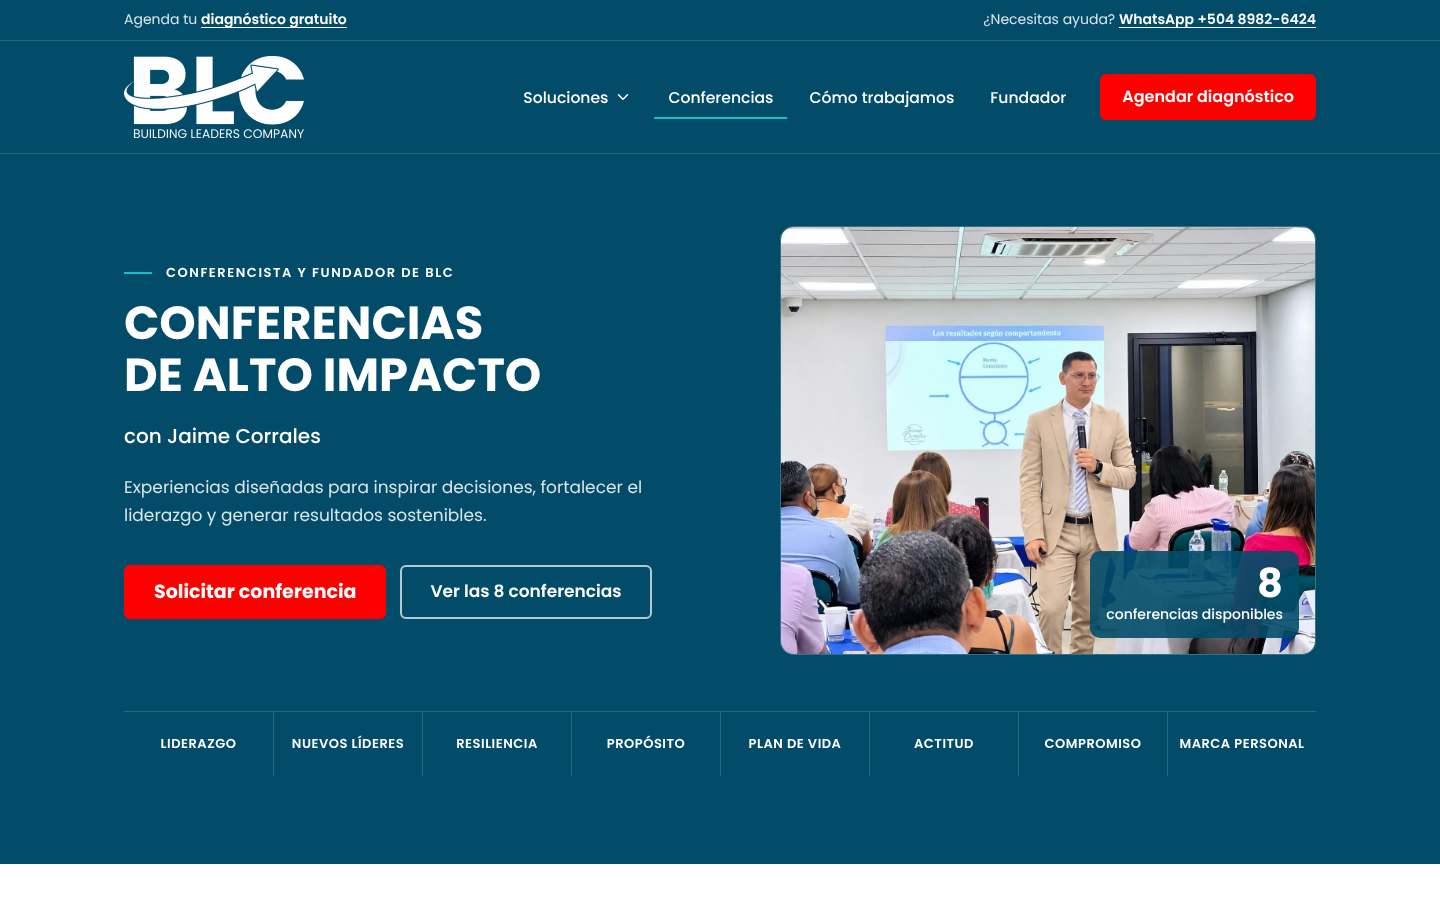
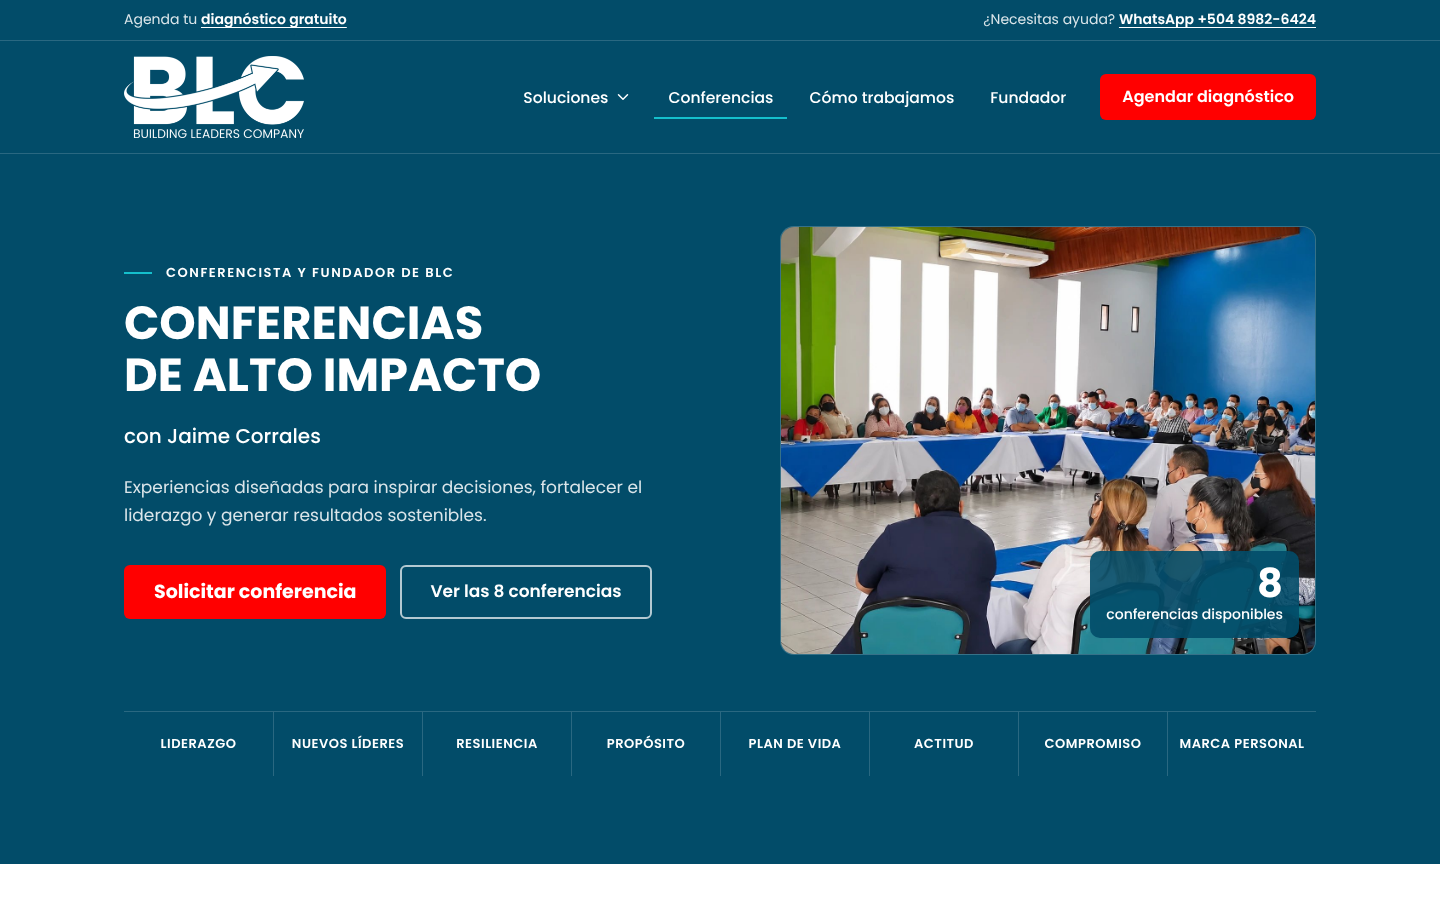
Cambia la foto de portada de Conferencias por la del salón con participantes
Claude-Session: https://claude.ai/code/session_01WCj9xs9Gz3GYaHb4eT4hNZ

Changed region(s): [[0.5312, 0.2489, 0.9375, 0.7467]]

diff --git a/src/conferencias.html b/src/conferencias.html
@@ -38,8 +38,8 @@
           </div>
         </div>
         <figure class="hero-media photo-slot photo-slot--dark">
-          <img src="/assets/fotos/jaime-escenario.jpg" alt="Jaime Corrales dando una conferencia" width="1600" height="1000" onerror="this.remove()">
-          <span>Jaime en escenario<br><small>assets/fotos/jaime-escenario.jpg</small></span>
+          <img src="/assets/fotos/conferencia-portada.jpg" alt="Participantes de una organización durante una conferencia de BLC" width="1254" height="1254" onerror="this.remove()">
+          <span>Foto de una conferencia<br><small>assets/fotos/conferencia-portada.jpg</small></span>
           <figcaption class="media-stat"><strong>8</strong><span>conferencias disponibles</span></figcaption>
         </figure>
       </div>

diff --git a/src/styles.css b/src/styles.css
@@ -423,3 +423,4 @@ a { color: var(--petroleo); text-underline-offset: .2em; }
 .photo-slot img[src*="equipo-graduacion"] { object-position: 50% 70%; }
 .photo-slot img[src*="jaime-libro"] { object-position: 50% 30%; }
 @media (max-width: 900px) { .video-section { grid-template-columns: 1fr; gap: 32px; } }
+.photo-slot img[src*="conferencia-portada"] { object-position: 50% 45%; }
